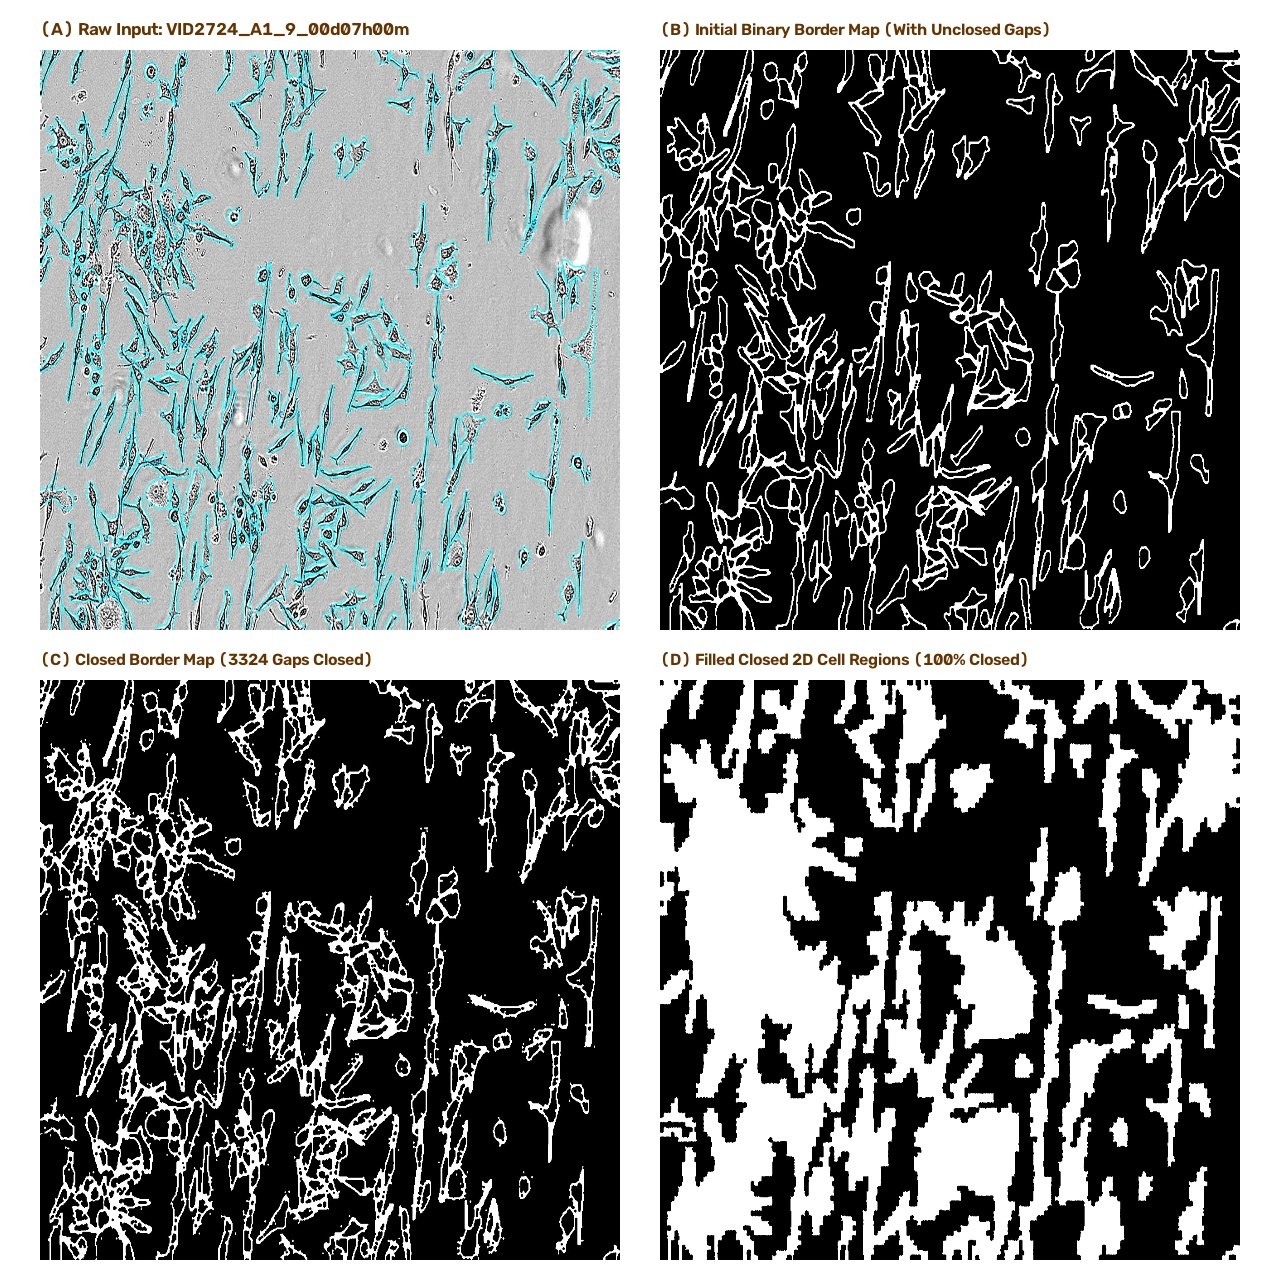
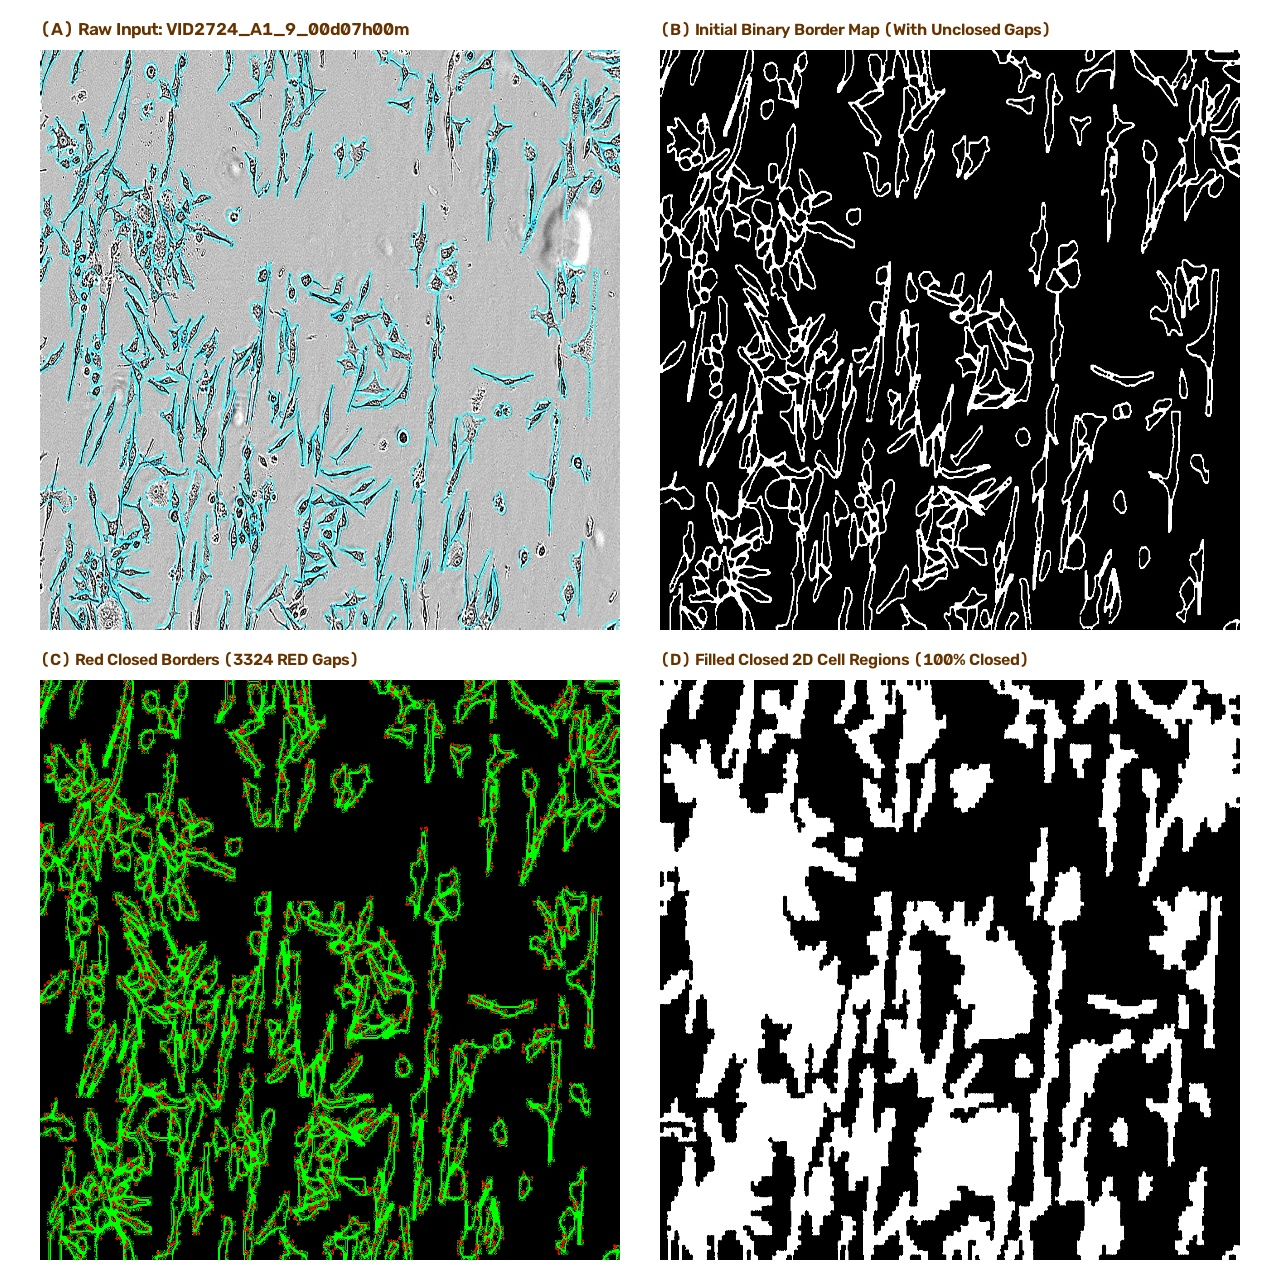
Highlight newly closed borders in bright RED (0,0,255) on whole-slide overlay maps and QA panels

Changed region(s): [[0.0312, 0.5, 0.5, 1.0]]

diff --git a/agy-code/contour_closing_engine.py b/agy-code/contour_closing_engine.py
@@ -27,6 +27,7 @@ def detect_and_close_open_contours(
 
     gaps_closed_count = 0
     endpoints = []
+    bridged_lines = []
 
     # STEP 2: CHECK EACH CONTOUR FOR SELF-GAP OR OPEN ENDPOINTS
     for c in contours:
@@ -40,6 +41,7 @@ def detect_and_close_open_contours(
         dist_self = np.hypot(p_start[0] - p_end[0], p_start[1] - p_end[1])
         if 2 <= dist_self <= max_gap_distance:
             cv2.line(closed_border_map, p_start, p_end, 255, thickness=2)
+            bridged_lines.append((p_start, p_end))
             gaps_closed_count += 1
         else:
             endpoints.append(p_start)
@@ -62,6 +64,7 @@ def detect_and_close_open_contours(
 
             # Bridge the open gap
             cv2.line(closed_border_map, pt1, pt2, 255, thickness=2)
+            bridged_lines.append((pt1, pt2))
             used.add(i)
             used.add(j)
             gaps_closed_count += 1
@@ -70,12 +73,23 @@ def detect_and_close_open_contours(
     kernel_repair = cv2.getStructuringElement(cv2.MORPH_ELLIPSE, (5, 5))
     closed_border_map = cv2.morphologyEx(closed_border_map, cv2.MORPH_CLOSE, kernel_repair)
 
+    # STEP 5: BUILD BRIGHT RED HIGHLIGHT OVERLAY MAP
+    # Base: Existing binary borders in GREEN (0, 255, 0) or WHITE
+    red_overlay_map = cv2.cvtColor(binary_border_map, cv2.COLOR_GRAY2BGR)
+    # Draw initial borders in Green
+    red_overlay_map[binary_border_map > 0] = [0, 255, 0]
+
+    # Draw all newly closed / bridged gap segments in BRIGHT RED (0, 0, 255)
+    for p1, p2 in bridged_lines:
+        cv2.line(red_overlay_map, p1, p2, (0, 0, 255), thickness=3)
+
     stats = {
         "total_contours": len(contours),
-        "open_gaps_closed": gaps_closed_count
+        "open_gaps_closed": gaps_closed_count,
+        "bridged_lines": bridged_lines
     }
 
-    return closed_border_map, stats
+    return closed_border_map, red_overlay_map, stats
 
 def process_whole_slide_contour_closing(
     input_dir="/Users/dpeleg/local/MicroGlia/Data/whole-slide-sharpened-borders",
@@ -104,11 +118,13 @@ def process_whole_slide_contour_closing(
         if binary_map is None: continue
 
         # Run Ultra-Fast KDTree Contour Closing Engine
-        closed_map, stats = detect_and_close_open_contours(binary_map, max_gap_distance=30)
+        closed_map, red_overlay_map, stats = detect_and_close_open_contours(binary_map, max_gap_distance=30)
 
-        # Save Output Closed Border Maps
+        # Save Output Closed Border Maps & Red Highlight Overlay
         path_closed = os.path.join(output_dir, f"{stem}_whole_slide_closed_borders.jpg")
+        path_red_overlay = os.path.join(output_dir, f"{stem}_red_closed_borders_overlay.jpg")
         cv2.imwrite(path_closed, closed_map)
+        cv2.imwrite(path_red_overlay, red_overlay_map)
 
         # Build Side-by-Side Visual QA Comparison Panel (Original vs. Closed)
         orig_path = os.path.join(input_dir, f"{stem}_whole_slide_original.jpg")
@@ -128,7 +144,7 @@ def process_whole_slide_contour_closing(
 
         p1 = cv2.resize(img_orig, (s, s))
         p2 = cv2.resize(cv2.cvtColor(binary_map, cv2.COLOR_GRAY2BGR), (s, s))
-        p3 = cv2.resize(cv2.cvtColor(closed_map, cv2.COLOR_GRAY2BGR), (s, s))
+        p3 = cv2.resize(red_overlay_map, (s, s))
         p4 = cv2.resize(cv2.cvtColor(filled_contours_map, cv2.COLOR_GRAY2BGR), (s, s))
 
         panel[50:50+s, 40:40+s] = p1
@@ -138,15 +154,16 @@ def process_whole_slide_contour_closing(
 
         cv2.putText(panel, f"(A) Raw Input: {stem}", (40, 35), cv2.FONT_HERSHEY_SIMPLEX, 0.60, (0, 51, 102), 2, cv2.LINE_AA)
         cv2.putText(panel, "(B) Initial Binary Border Map (With Unclosed Gaps)", (660, 35), cv2.FONT_HERSHEY_SIMPLEX, 0.55, (0, 51, 102), 2, cv2.LINE_AA)
-        cv2.putText(panel, f"(C) Closed Border Map ({stats['open_gaps_closed']} Gaps Closed)", (40, 665), cv2.FONT_HERSHEY_SIMPLEX, 0.55, (0, 51, 102), 2, cv2.LINE_AA)
+        cv2.putText(panel, f"(C) Red Closed Borders ({stats['open_gaps_closed']} RED Gaps)", (40, 665), cv2.FONT_HERSHEY_SIMPLEX, 0.55, (0, 51, 102), 2, cv2.LINE_AA)
         cv2.putText(panel, "(D) Filled Closed 2D Cell Regions (100% Closed)", (660, 665), cv2.FONT_HERSHEY_SIMPLEX, 0.55, (0, 51, 102), 2, cv2.LINE_AA)
 
         path_panel = os.path.join(output_dir, f"{stem}_contour_closing_panel.jpg")
         cv2.imwrite(path_panel, panel)
 
         print(f"[{idx}/{len(binary_border_files)}] Processed: {stem}")
-        print(f"  • Total Contours: {stats['total_contours']} | Gaps Closed: {stats['open_gaps_closed']}")
+        print(f"  • Total Contours: {stats['total_contours']} | RED Gaps Closed: {stats['open_gaps_closed']}")
         print(f"  • Saved Closed Map: {path_closed}")
+        print(f"  • Saved RED Overlay Map: {path_red_overlay}")
         print(f"  • Saved Visual QA Panel: {path_panel}\n")
 
     print("=======================================================================")
